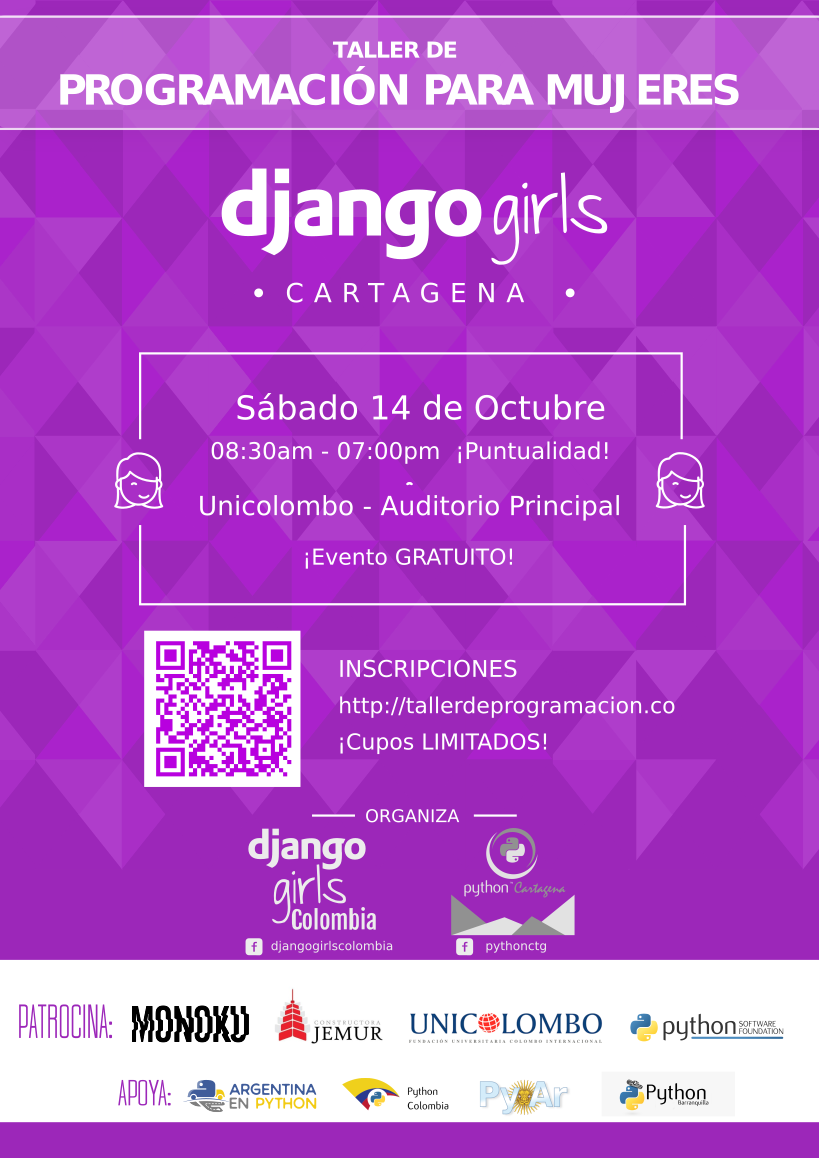
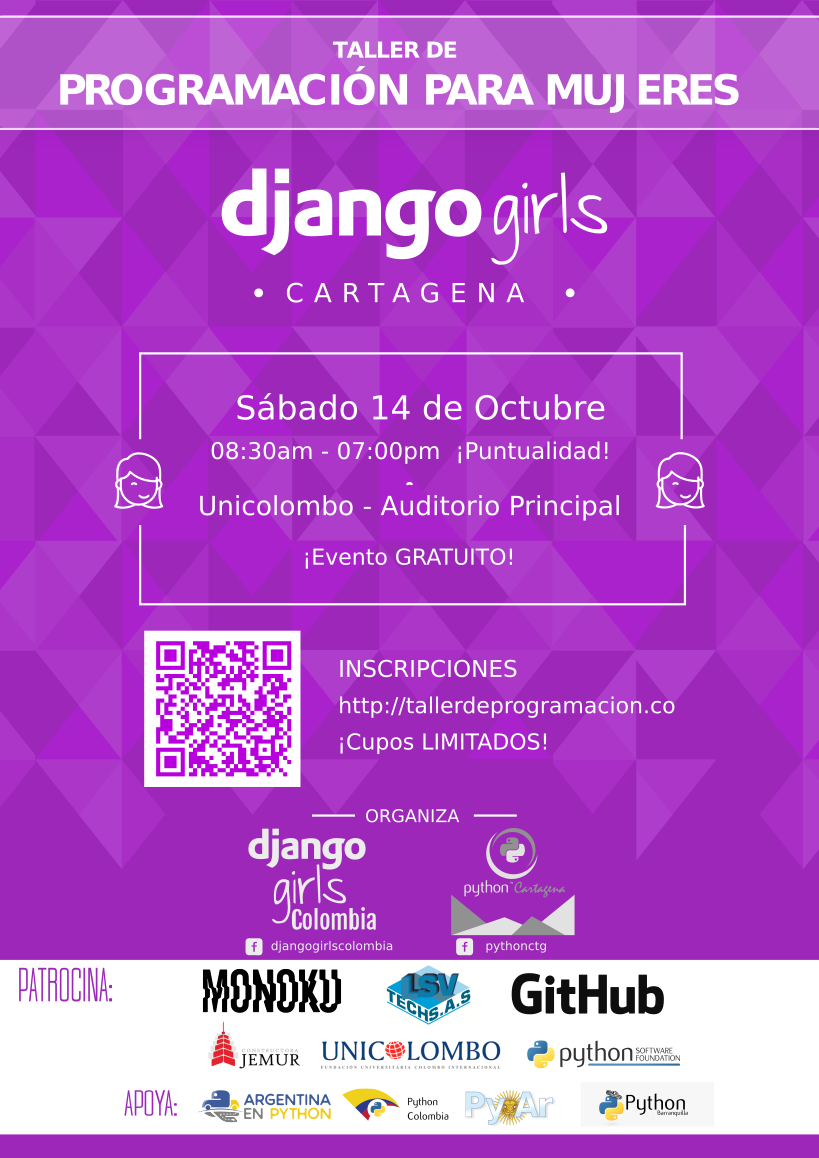
Agregue las img modificadas con los nuevos sponsors para DG Cartagena

Changed region(s): [[0.0, 0.8394, 1.0, 0.9948]]

diff --git a/web/stories/django-girls-cartagena.rst b/web/stories/django-girls-cartagena.rst
@@ -399,7 +399,7 @@ contigo para coordinar los detalles.
 Con el Apoyo de
 ---------------
 
-.. image:: sponsors.jpeg
+.. image:: sponsors.png
    :align: center
 
 ----
